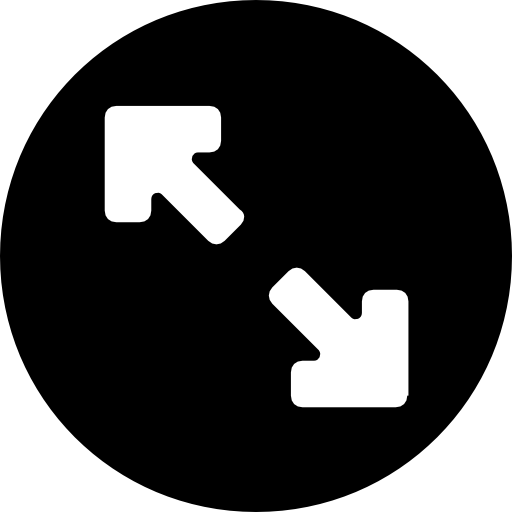
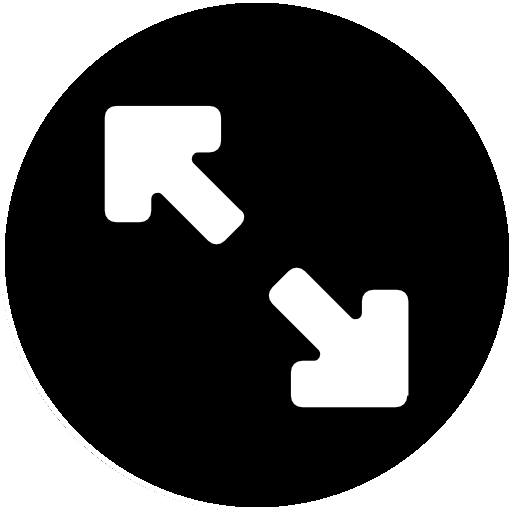
Use a better expand button

diff --git a/extension/build/contentScript.js b/extension/build/contentScript.js
@@ -1106,7 +1106,7 @@ function listenToInput(input) {
         let value = input.value;
         knownTokens.forEach(knownToken => {
             if (knownToken.isValid && !knownToken.disabled) {
-                const tagInsert = `<a href="https://gitme.me/image?url=${encodeURIComponent(knownToken.imageUrl)}"><img src="${knownToken.imageUrl}" title="Created by gitme.me with /${knownToken.token.value}"/></a>`;
+                const tagInsert = `<a href="https://gitme.me/image?url=${encodeURIComponent(knownToken.imageUrl)}&token=${encodeURIComponent(knownToken.token.value)}"><img src="${knownToken.imageUrl}" title="Created by gitme.me with /${knownToken.token.value}"/></a>`;
                 value =
                     value.substring(0, knownToken.token.index) +
                         tagInsert +
@@ -2515,7 +2515,7 @@ const selectedButtonImage = chrome.runtime.getURL("assets/selectedButton.png");
 // @ts-ignore: In extension
 const expandButtonImage = chrome.runtime.getURL("assets/expandButton.png");
 // @ts-ignore: In extension
-const unexpandButtonImage = chrome.runtime.getURL("assets/expandButton.png");
+const unexpandButtonImage = chrome.runtime.getURL("assets/collapseButton.png");
 function TokenModalImage(props) {
     const [style, setStyle] = useState({
         height: "inherit",

diff --git a/site/ui/src/pages/index.css b/site/ui/src/pages/index.css
@@ -1,39 +1,3 @@
-.installButton {
-  font-size: 14px;
-  line-height: 20px;
-  padding: 3px 10px;
-  background-color: #28a745;
-  background-image: linear-gradient(-180deg, #34d058, #28a745 90%);
-  color: #fff;
-  cursor: pointer;
-  text-decoration: none;
-  appearance: none;
-  background-position: -1px -1px;
-  background-repeat: repeat-x;
-  background-size: 110% 110%;
-  border: 1px solid rgba(27, 31, 35, 0.2);
-  border-radius: 0.25em;
-  cursor: pointer;
-  display: inline-block;
-  font-weight: 600;
-  margin-bottom: 20px;
-  position: relative;
-  user-select: none;
-  vertical-align: middle;
-  white-space: nowrap;
-}
-
-.installButton:hover {
-  background-color: #269f42;
-  background-image: linear-gradient(-180deg, #2fcb53, #269f42 90%);
-  background-position: -0.5em;
-  border-color: rgba(27, 31, 35, 0.5);
-}
-
-.installButton:focus {
-  box-shadow: 0 0 0 0.2em rgba(52, 208, 88, 0.4);
-}
-
 .token {
   background-color: #fff5b1;
   border: 1px solid #ddd69b;

diff --git a/site/ui/src/components/install_button.css b/site/ui/src/components/install_button.css
@@ -1,0 +1,35 @@
+.installButton {
+  font-size: 14px;
+  line-height: 20px;
+  padding: 3px 10px;
+  background-color: #28a745;
+  background-image: linear-gradient(-180deg, #34d058, #28a745 90%);
+  color: #fff;
+  cursor: pointer;
+  text-decoration: none;
+  appearance: none;
+  background-position: -1px -1px;
+  background-repeat: repeat-x;
+  background-size: 110% 110%;
+  border: 1px solid rgba(27, 31, 35, 0.2);
+  border-radius: 0.25em;
+  cursor: pointer;
+  display: inline-block;
+  font-weight: 600;
+  margin-bottom: 20px;
+  position: relative;
+  user-select: none;
+  vertical-align: middle;
+  white-space: nowrap;
+}
+
+.installButton:hover {
+  background-color: #269f42;
+  background-image: linear-gradient(-180deg, #2fcb53, #269f42 90%);
+  background-position: -0.5em;
+  border-color: rgba(27, 31, 35, 0.5);
+}
+
+.installButton:focus {
+  box-shadow: 0 0 0 0.2em rgba(52, 208, 88, 0.4);
+}

diff --git a/site/ui/src/pages/index.tsx b/site/ui/src/pages/index.tsx
@@ -11,6 +11,7 @@ import {
 } from "react-stonecutter";
 
 import "./index.css";
+import InstallButton from "../components/install_button";
 
 const Grid = makeResponsive(measureItems(SpringGrid, { measureImages: true }), {
   maxWidth: 1280,
@@ -86,9 +87,7 @@ export default function IndexPage() {
     <Layout>
       <SEO title="Home" />
       <div style={{ textAlign: "center" }}>
-        <a className="installButton" href="#">
-          Install Now
-        </a>
+        <InstallButton />
       </div>
       <p>
         GitMeme brings lots of fun to Github by making it easy to include Gifs

diff --git a/site/ui/src/pages/image.tsx b/site/ui/src/pages/image.tsx
@@ -3,6 +3,7 @@ import * as React from "react";
 
 import Layout from "../components/layout";
 import SEO from "../components/seo";
+import InstallButton from "../components/install_button";
 
 export default function ImagePage() {
   let imageUrl = null;
@@ -26,9 +27,7 @@ function renderImage(imageUrl: string): React.ReactNode {
         your Github issues and pull requests
       </div>
       <div>
-        <a className="downloadButton" href="">
-          Install Now
-        </a>
+        <InstallButton />
       </div>
       <img src={imageUrl} />
     </div>

diff --git a/extension/src/components/TokenModalImage.tsx b/extension/src/components/TokenModalImage.tsx
@@ -14,7 +14,7 @@ const selectedButtonImage = chrome.runtime.getURL("assets/selectedButton.png");
 // @ts-ignore: In extension
 const expandButtonImage = chrome.runtime.getURL("assets/expandButton.png");
 // @ts-ignore: In extension
-const unexpandButtonImage = chrome.runtime.getURL("assets/expandButton.png");
+const unexpandButtonImage = chrome.runtime.getURL("assets/collapseButton.png");
 
 export default function TokenModalImage(props: Props) {
   const [style, setStyle] = useState({

diff --git a/site/ui/src/components/header.tsx b/site/ui/src/components/header.tsx
@@ -13,7 +13,7 @@ const Header = ({ siteTitle }: Props) => {
     const urlParams = new URLSearchParams(window.location.search);
     const token = decodeURIComponent(urlParams.get("token") || "") || null;
     if (token) {
-      extraTitle = <span className="tokenTitle">/{token}</span>;
+      extraTitle = <span className="tokenTitle">for /{token}</span>;
     }
   }
   return (

diff --git a/site/ui/src/components/install_button.tsx b/site/ui/src/components/install_button.tsx
@@ -1,0 +1,11 @@
+import * as React from "react";
+
+import "./install_button.css";
+
+export default function InstallButton() {
+  return (
+    <a className="installButton" href="#">
+      Install Now
+    </a>
+  );
+}
